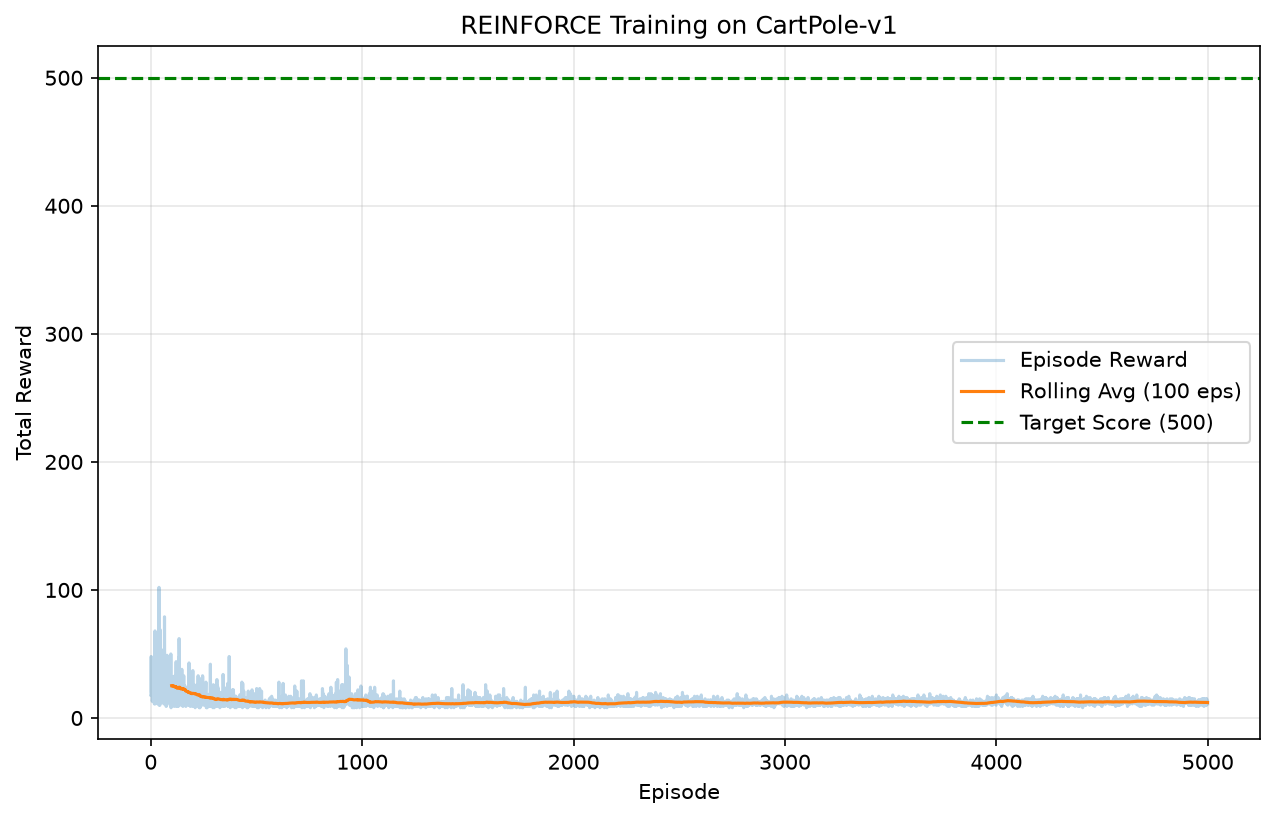
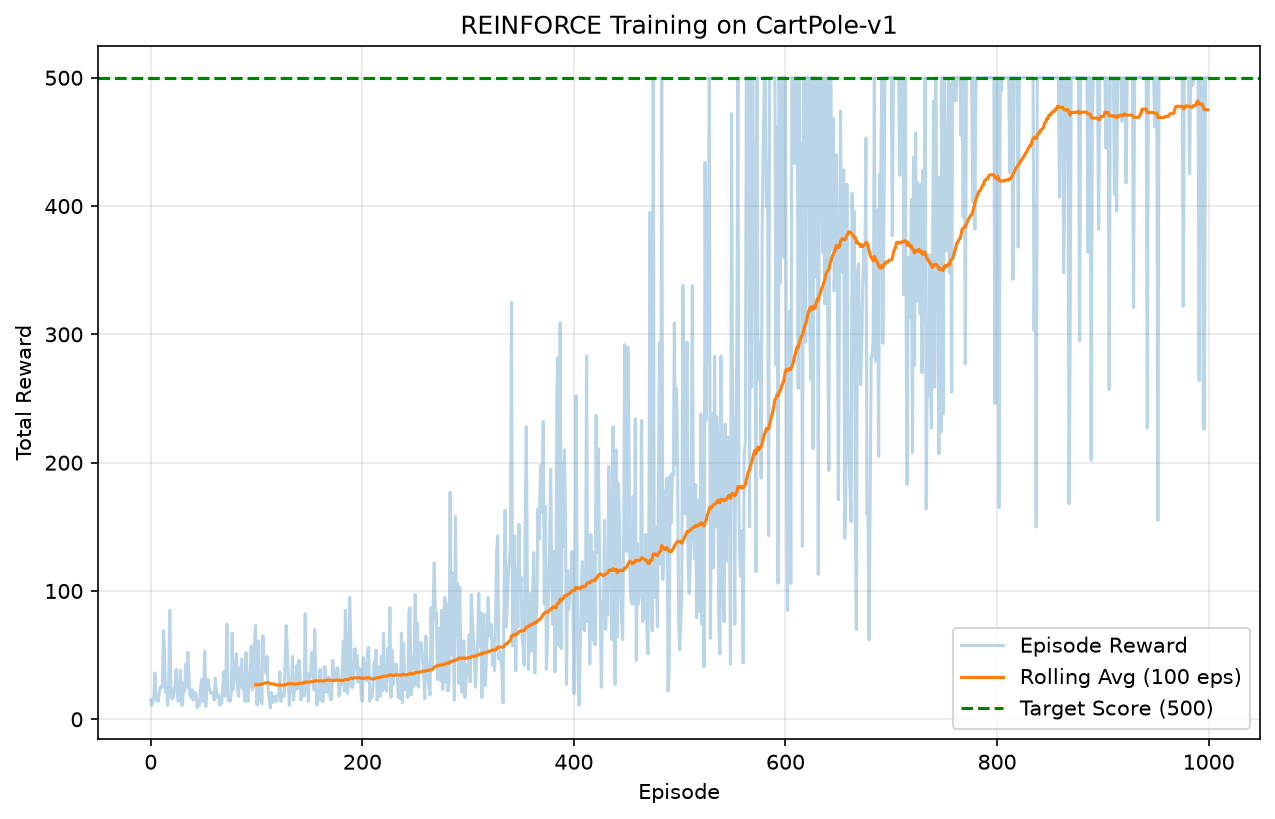
readapted REINFORCE

diff --git a/reinforce.py b/reinforce.py
@@ -36,6 +36,7 @@ class ReinforceAgent:
         self.actions = []
         self.rewards = []
         self.log_probs = []
+        self.episode_returns = []
 
     def select_action(self, state):
         dist = self.policy(torch.FloatTensor(state).unsqueeze(0))
@@ -55,9 +56,15 @@ class ReinforceAgent:
 
     def update(self):
         returns = self._compute_returns()
-        mean = returns.mean()
-        std = returns.std()
+
+        if len(self.episode_returns) > 1:
+            mean = np.mean(self.episode_returns)
+            std = np.std(self.episode_returns)
+        else:
+            mean = returns.mean()
+            std = returns.std()
         standardized = (returns - mean) / (std + 1e-8)
+        self.episode_returns.append(returns[0])
 
         log_probs = torch.stack(self.log_probs)
         standardized_t = torch.FloatTensor(standardized)
@@ -106,7 +113,7 @@ def train():
 
     agent = ReinforceAgent(state_dim=state_dim, action_dim=action_dim)
 
-    num_episodes = 5000
+    num_episodes = 1000
     episode_rewards = []
 
     for episode in range(num_episodes):

diff --git a/README.md b/README.md
@@ -10,7 +10,7 @@ Demonstrate faithful replication of ideas from foundational RL papers:
 | :--- | :--- | :--- |
 | **DQN** | Mnih et al. (2013, 2015) | Experience replay, target network, Huber loss to stabilize Q-learning with function approximation |
 | **Double DQN** | van Hasselt et al. (2015) | Decoupled action selection (online net) and evaluation (target net) to reduce overestimation bias |
-| **REINFORCE** | Williams (1992), Sutton et al. (1999) | Monte Carlo policy gradient with a categorical policy and standardized-return baseline |
+| **REINFORCE** | Williams (1992), Sutton et al. (1999) | Monte Carlo policy gradient with a categorical policy and a cross-episode standardized-return baseline |
 
 Each agent is designed to match its paper's specifications (replay buffer size, batch size, target update interval, loss function, exploration schedule) while sharing an identical training loop and logging format so results are directly comparable.
 
@@ -29,7 +29,7 @@ dqn_bridge/
 │   ├── double_dqn_rewards.json
 │   └── reinforce_rewards.json
 ├── comparison_500ep.png    # DQN vs Double DQN (500-episode budget)
-└── comparison_5000ep.png   # REINFORCE (5,000-episode budget)
+└── comparison_1000ep.png   # REINFORCE (1,000-episode budget)
 ```
 
 ## Installation
@@ -45,10 +45,10 @@ Train each algorithm:
 ```bash
 python dqn.py          # 500 episodes → logs/dqn_rewards.json
 python double_dqn.py   # 500 episodes → logs/double_dqn_rewards.json
-python reinforce.py    # 5,000 episodes → logs/reinforce_rewards.json
+python reinforce.py    # 1,000 episodes → logs/reinforce_rewards.json
 ```
 
-Each run saves its raw per-episode rewards to a JSON log in `logs/`. REINFORCE uses a 10× larger budget because it performs only a single gradient update per episode and, being on-policy, requires many more rollouts to converge.
+Each run saves its raw per-episode rewards to a JSON log in `logs/`. REINFORCE uses a larger budget because it performs only a single gradient update per episode and, being on-policy, requires more rollouts to converge.
 
 Compare trained runs:
 
@@ -56,7 +56,7 @@ Compare trained runs:
 python utils.py
 ```
 
-This reads every JSON in `logs/` and groups curves by episode budget so runs are only plotted on comparable axes. It produces one figure per budget, each with 30-episode moving-average lines and shaded standard-deviation bands: `comparison_500ep.png` (DQN vs Double DQN) and `comparison_5000ep.png` (REINFORCE).
+This reads every JSON in `logs/` and groups curves by episode budget so runs are only plotted on comparable axes. It produces one figure per budget, each with 30-episode moving-average lines and shaded standard-deviation bands: `comparison_500ep.png` (DQN vs Double DQN) and `comparison_1000ep.png` (REINFORCE).
 
 ## Logging Contract
 

diff --git a/AGENTS.md b/AGENTS.md
@@ -46,13 +46,14 @@ This document details the mathematical specifications, loss formulations, and hy
 ### Core Architecture
 * **Policy Network:** MLP ($4 \rightarrow 128 \rightarrow 2$) outputting unnormalized logits passed into a `Categorical` action distribution $\pi_\theta(a|s)$.
 * **Memory Strategy:** Full trajectory on-policy rollouts $(s_0, a_0, r_0), \dots, (s_T, a_T, r_T)$. No replay buffer or target network is used. Trajectory memory is wiped completely after every gradient update.
-* **Training Budget:** Trained for $5{,}000$ episodes (versus $500$ for DQN and Double DQN), since REINFORCE performs a single gradient update per episode and requires many more on-policy rollouts to converge.
+* **Training Budget:** Trained for $1{,}000$ episodes (versus $500$ for DQN and Double DQN), since REINFORCE performs a single gradient update per episode and requires more on-policy rollouts to converge.
 
 ### Mathematical Formulation
 * **Backward Discounted Return:**
   $$G_t = \sum_{k=t}^{T-1} \gamma^{k-t} r_k$$
-* **Variance Reduction (Standardized Baseline):**
+* **Variance Reduction (Cross-Episode Standardized Baseline):**
   $$\hat{G}_t = \frac{G_t - \mu_G}{\sigma_G + 10^{-8}}$$
+  where $\mu_G$ and $\sigma_G$ are the mean and standard deviation of episode returns accumulated **across previously seen episodes**, so the signal preserves whether an episode performed above or below the running performance average. (Standardizing within a single trajectory would erase this between-episode signal.)
 * **Objective & Loss Function:** Minimizes the negative log-likelihood weighted by standardized return:
   $$\mathcal{L}(\theta) = - \sum_{t=0}^{T-1} \log \pi_\theta(a_t \mid s_t) \cdot \hat{G}_t$$
 * **Update Frequency:** Once per complete episode using Adam optimizer ($\alpha = 10^{-3}$).
@@ -70,5 +71,5 @@ This document details the mathematical specifications, loss formulations, and hy
 | **Batch Size** | $64$ | $64$ | Complete Episode |
 | **Target Update ($C$)** | Every $500$ steps | Every $500$ steps | $N/A$ |
 | **Loss Criteria** | Huber Loss | Huber Loss | Policy Negative Log-Likelihood |
-| **Episode Budget** | $500$ | $500$ | $5{,}000$ |
+| **Episode Budget** | $500$ | $500$ | $1{,}000$ |
 | **Output File** | `logs/dqn_rewards.json` | `logs/double_dqn_rewards.json` | `logs/reinforce_rewards.json` |
